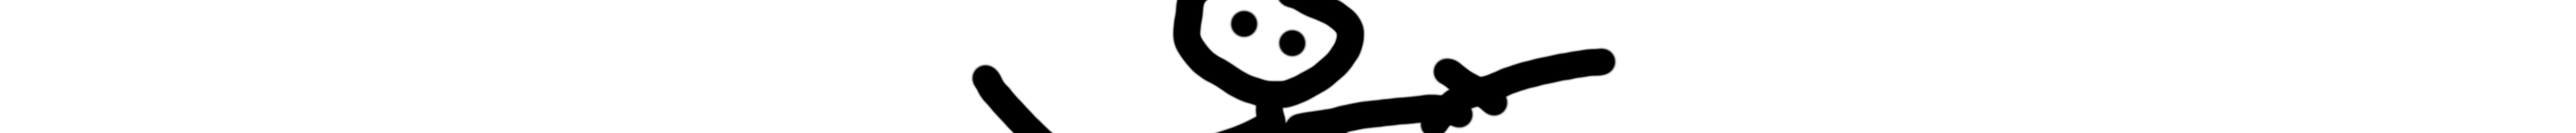
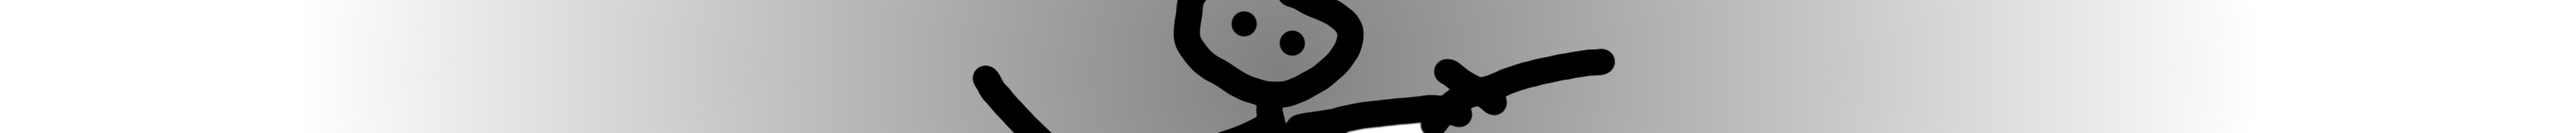
- WIP, python 3

diff --git a/unworstify.py b/unworstify.py
@@ -226,15 +226,16 @@ def apply_vignette(im):
     size_x, size_y = im.size
     im = im.convert("RGBA")
     pixels = im.load()
+    factor = 40
 
     for y in range(size_y):
         for x in range(size_x):
-            factor = 1
             uv_x = x / size_x
             uv_y = y / size_y
             uv_x2 = uv_x * (1 - uv_y)
             uv_y2 = uv_y * (1 - uv_x)
-            vig = uv_x2 * uv_y2 * 40
+            vig = uv_x2 * uv_y2 * factor
+
             vig = math.pow(vig, 0.15)
             vig = min(1, vig)
             r, g, b, a = pixels[x, y]
@@ -281,6 +282,9 @@ def apply_stamp_text(im, stamp):
 def try_convert_to_rgb(im):
     size_x, size_y = im.size
     pixels = im.load()
+
+    if im.getbands() == ("R", "G", "B"):
+        return im
 
     print("Checking for transparency")
     for y in range(size_y):
@@ -350,7 +354,7 @@ def convert_targets(base_path, settings, inputs, stamps):
                         im = apply_stamp_text(im, stamp)
 
             # Vignette
-            do_vignette = True
+            do_vignette = False
             if "apply_vignette" in conv:
                 do_vignette = conv["apply_vignette"]
             if do_vignette:
